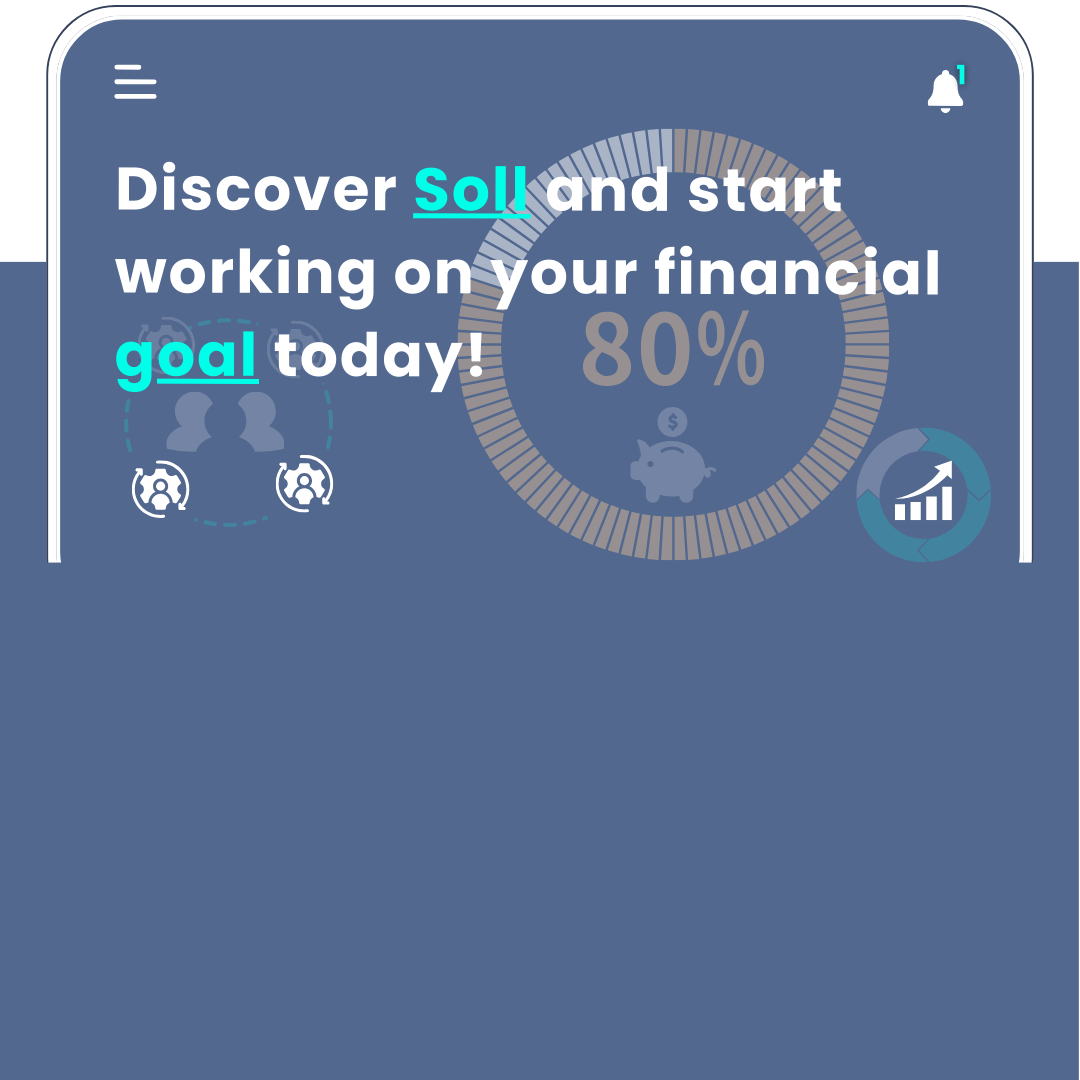
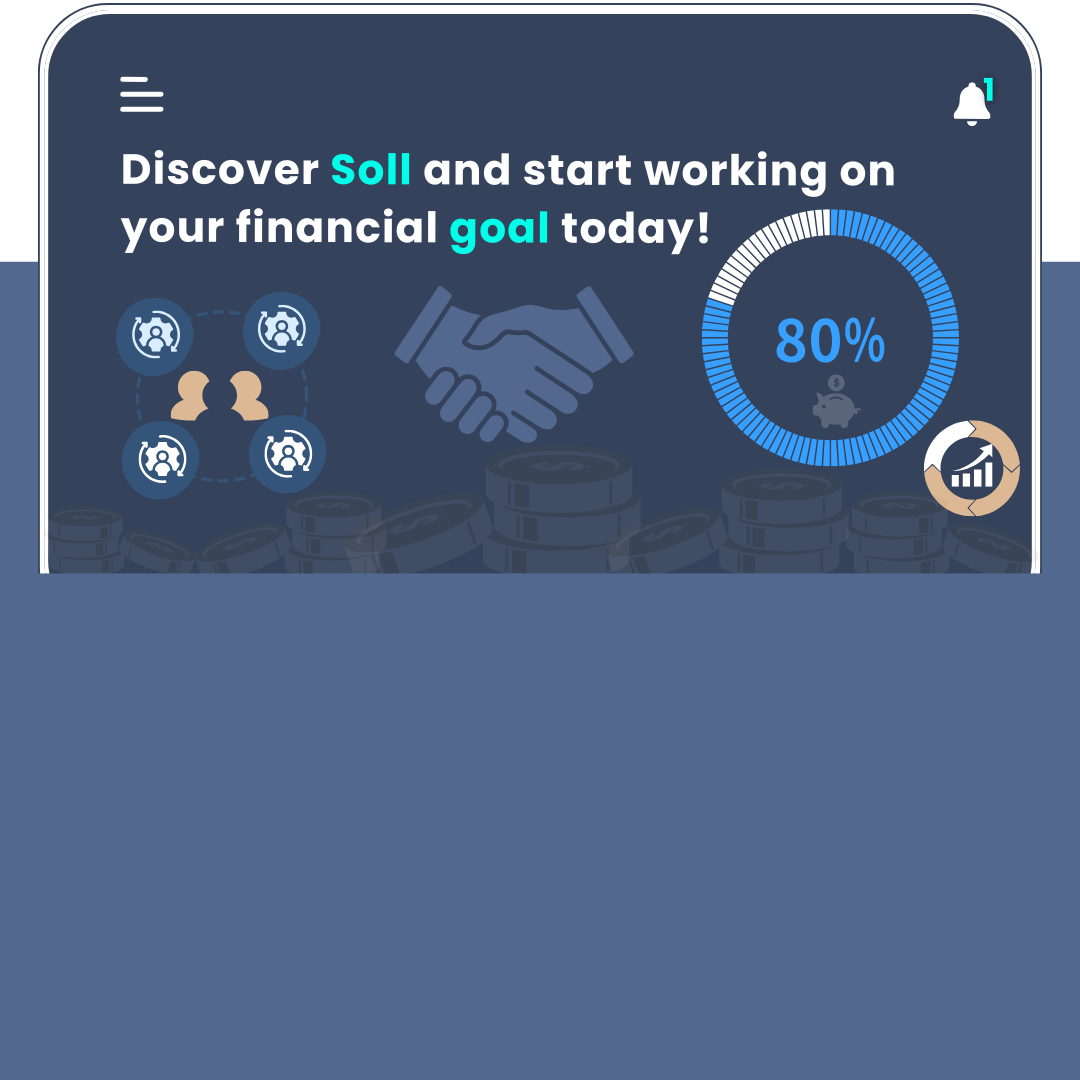
update hero images

diff --git a/src/app/utils/styles/media-rules.scss b/src/app/utils/styles/media-rules.scss
@@ -1,97 +1,103 @@
 $primary-color: #52688f;
 
-.front-page-component{
-  @media screen and (min-width: 768px) {
-      margin-top: 5em !important;
-      font-size: larger !important;
-      .core-page{
-        padding-top: 1em;
-        padding-left: 3em;
-        padding-right: 3em;
-      }
-      .header-tagline{
-        margin-bottom: 2em !important;
-        padding-bottom: 2em !important;
-      }
-      img:not(.call-to-action img, .branding img, .ratings-partners img, .hero img){
-        height: 30em !important;
-        width: 30em !important;
-      }
-      h1{
-        font-size: xx-large !important;
-      }
-
-      .hero-container{
-        min-height: 45em !important;
-        background-size: contain !important;
-      }
-
-      .get-started{
-        padding-left: 3em !important;
-        padding-right: 3em !important;
-        margin-top: 3em !important;
-      }
-
-      .slide-buttons{
-        margin-top: 15em !important;
-      }
-      
-      .justify-right{
-        width: 100%;
-        position: relative;
-        display: flex;
-        justify-content: flex-end;
-      }
-      .action{
-        margin-left: -2em;
-        padding-right: 1em;
-      }
-      .learn-more{
-        button{
-          font-size: x-large !important;
-          padding-top: 1em !important;
-          padding-bottom: 1em !important;
-        }
-      }
-      .learn-more-content{
-        img{
-          margin-top: -3em !important;
-        }
-      }
-      .learn-more-content.tag-words p{
-        font-size: large !important;
-      }
-      .faqs p{
-        font-size: large !important;
-      }
-      img:not(.call-to-action img, .branding img, .ratings-partners img, .hero img){
-        height: 25em !important;
-        width: 25em !important;
-      }
-      mat-expansion-panel-header .mat-expansion-indicator::after {
-        padding: 0.2em 0.3em;
-        padding-bottom: 0.4em;
-      }
+.front-page-component {
+  @media (min-width: 1024px) {
+    margin-top: 5em !important;
+    font-size: larger !important;
+    .core-page {
+      padding-top: 1em;
+      padding-left: 3em;
+      padding-right: 3em;
+    }
+    .header-tagline {
+      margin-bottom: 2em !important;
+      padding-bottom: 2em !important;
+    }
+    img:not(
+        .call-to-action img,
+        .branding img,
+        .ratings-partners img,
+        .hero img
+      ) {
+      height: 30em !important;
+      width: 30em !important;
+    }
+    h1 {
+      font-size: xx-large !important;
     }
 
-  }
+    .hero-container {
+      min-height: 45em !important;
+      background-size: contain !important;
+    }
 
-    @media screen and (min-width: 768px) {
-      .public-nav{
-        padding-left: 1em;
-        padding-right: 1em;
+    .get-started {
+      padding-left: 3em !important;
+      padding-right: 3em !important;
+      margin-top: 3em !important;
+    }
+
+    .slide-buttons {
+      margin-top: 15em !important;
+    }
+
+    .justify-right {
+      width: 100%;
+      position: relative;
+      display: flex;
+      justify-content: flex-end;
+    }
+    .action {
+      margin-left: -2em;
+      padding-right: 1em;
+    }
+    .learn-more {
+      button {
+        font-size: x-large !important;
+        padding-top: 1em !important;
+        padding-bottom: 1em !important;
+      }
+    }
+    .learn-more-content {
+      img {
+        margin-top: -3em !important;
+      }
+    }
+    .learn-more-content.tag-words p {
+      font-size: large !important;
+    }
+    .faqs p {
+      font-size: large !important;
+    }
+    img:not(
+        .call-to-action img,
+        .branding img,
+        .ratings-partners img,
+        .hero img
+      ) {
+      height: 25em !important;
+      width: 25em !important;
+    }
+    mat-expansion-panel-header .mat-expansion-indicator::after {
+      padding: 0.2em 0.3em;
+      padding-bottom: 0.4em;
     }
   }
+}
 
-@media screen and (orientation: landscape){
-  .hero-container{
+@media (min-width: 1024px) {
+  .public-nav {
+    padding-left: 1em;
+    padding-right: 1em;
+  }
+}
+
+@media (min-width: 1024px) {
+  .hero-container {
     min-height: 45em !important;
   }
-  .get-started{
-    margin-top: 3em !important;
-  }
 
-  .slide-buttons{
-    margin-top: 15em !important;
+  .slide-buttons {
+    margin-top: 5em !important;
   }
 }

diff --git a/src/app/utils/screen-layout/screen-layout.service.ts b/src/app/utils/screen-layout/screen-layout.service.ts
@@ -3,18 +3,27 @@ import { Injectable } from '@angular/core';
 import { Observable, map } from 'rxjs';
 
 @Injectable({
-  providedIn: 'root'
+  providedIn: 'root',
 })
 export class ScreenLayoutService {
-
   isMobile$: Observable<boolean>;
+  isTablet$: Observable<boolean>;
+  isDesktop$: Observable<boolean>;
 
   constructor(private breakpointObserver: BreakpointObserver) {
-    this.isMobile$ = this.breakpointObserver.observe([
-      Breakpoints.XSmall,
-      Breakpoints.Small,
-    ]).pipe(
-      map(result => result.matches)
-    )
+    // MOBILE: < 768px
+    this.isMobile$ = this.breakpointObserver
+      .observe(['(max-width: 767px)'])
+      .pipe(map((result) => result.matches));
+
+    // TABLET: 768px – 1023px
+    this.isTablet$ = this.breakpointObserver
+      .observe(['(min-width: 768px) and (max-width: 1023px)'])
+      .pipe(map((result) => result.matches));
+
+    // DESKTOP: ≥ 1024px
+    this.isDesktop$ = this.breakpointObserver
+      .observe(['(min-width: 1024px)'])
+      .pipe(map((result) => result.matches));
   }
 }

diff --git a/src/app/components/front-page/front-page.component.scss b/src/app/components/front-page/front-page.component.scss
@@ -22,9 +22,9 @@ $transparent-bgr: rgb(82, 104, 143, 0.1);
 .header-tagline {
   .tagLine {
     font-size: x-large;
-    padding: 1.2em 0.6em;
-    padding-top: 0.3em;
+    padding: 0.6em;
     padding-right: 0.5em;
+    margin-top: -0.5em;
   }
 }
 
@@ -59,7 +59,7 @@ $transparent-bgr: rgb(82, 104, 143, 0.1);
   display: flex;
   justify-content: center;
   width: 100%;
-  margin-top: 1.5em;
+  margin-top: 2em;
   button {
     cursor: pointer;
     border: none;

diff --git a/src/app/components/front-page/front-page.component.ts b/src/app/components/front-page/front-page.component.ts
@@ -33,8 +33,6 @@ export class FrontPageComponent implements OnInit, OnDestroy {
     '/assets/img/hero-img.png',
     '/assets/img/hero-img2.png',
     '/assets/img/hero-img3.png',
-    '/assets/img/hero-img4.png',
-    '/assets/img/hero-img5.png',
   ];
   currentImage!: string;
   $accentColor = '#35425B';

diff --git a/src/app/components/front-page/front-page.component.html b/src/app/components/front-page/front-page.component.html
@@ -44,10 +44,6 @@
         </button>
       </div>
     </div>
-    <p class="note">
-      <sup>1</sup> Note: images on this website were created using AI for
-      illustration purposes.
-    </p>
   </div>
 
   <div class="core-page">
